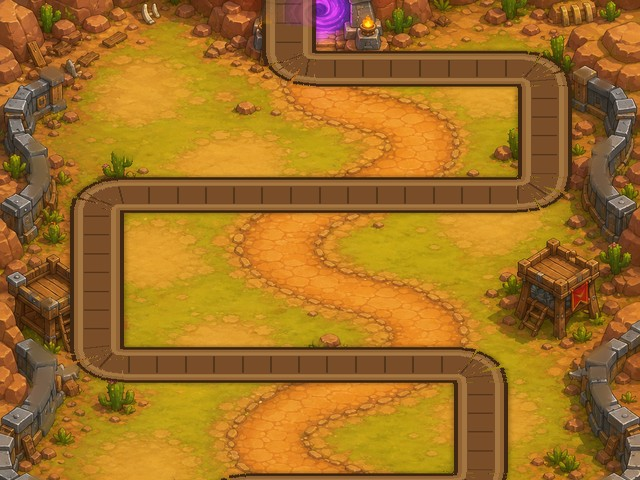
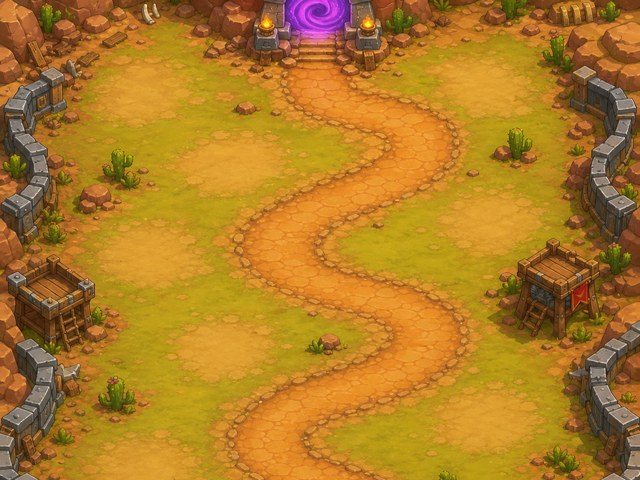
Remove path overlays and drive invaders along painted-road rails.
Art maps bake as pristine backgrounds only; continuous rails track each painted road so movement no longer fights a second visible path.

diff --git a/src/rails.ts b/src/rails.ts
@@ -1,0 +1,23 @@
+/** Continuous painted-road rails (world px). Invaders follow these; no path overlay. */
+
+export type RailPt = readonly [number, number];
+export type MapRails = { cells: readonly (readonly [number, number])[]; rail: readonly RailPt[] };
+
+export const MAP_RAILS: Record<string, MapRails> = {
+  lawn: {
+    cells: [[4, 0], [4, 1], [4, 2], [4, 3], [4, 4], [3, 4], [3, 5], [4, 5], [5, 5], [5, 6], [6, 6], [6, 7], [5, 7], [5, 8], [4, 8], [3, 8], [3, 9], [4, 9], [4, 10], [5, 10], [5, 11], [5, 12], [4, 12], [4, 13], [4, 14]],
+    rail: [[320.0, 42.0], [319.9, 45.6], [319.6, 52.7], [319.4, 59.5], [319.1, 66.0], [318.8, 72.3], [318.4, 78.5], [318.0, 84.8], [317.6, 91.1], [317.3, 97.7], [317.2, 104.6], [317.2, 112.0], [316.6, 120.0], [315.1, 126.7], [313.1, 131.8], [311.7, 136.3], [311.3, 140.9], [311.1, 145.8], [310.3, 150.7], [308.9, 155.4], [307.5, 159.8], [306.3, 164.0], [305.4, 168.0], [305.1, 172.0], [305.4, 176.0], [305.5, 180.0], [304.7, 184.0], [303.8, 188.0], [303.6, 192.0], [303.3, 196.0], [301.9, 200.0], [299.3, 204.0], [296.3, 208.0], [293.7, 212.0], [291.5, 216.0], [289.2, 220.0], [286.6, 224.0], [284.1, 228.0], [281.2, 232.0], [277.7, 236.0], [273.9, 240.0], [270.5, 244.0], [267.6, 248.0], [264.8, 252.0], [262.2, 256.0], [259.6, 260.0], [256.8, 264.0], [254.1, 268.0], [251.8, 272.0], [250.5, 276.0], [250.2, 280.0], [250.7, 284.0], [252.2, 288.0], [254.4, 292.0], [256.9, 296.0], [259.1, 300.0], [260.9, 304.0], [263.4, 308.0], [267.1, 312.0], [272.1, 316.0], [278.4, 320.0], [284.8, 324.0], [289.6, 328.0], [292.8, 332.0], [296.3, 336.0], [301.6, 340.0], [308.1, 344.0], [313.8, 348.0], [317.3, 352.0], [320.3, 356.0], [325.6, 360.0], [333.8, 364.0], [343.2, 368.0], [352.1, 372.0], [359.9, 376.0], [367.0, 380.0], [374.4, 384.0], [382.5, 388.0], [390.2, 392.0], [396.0, 396.0], [399.6, 400.0], [401.8, 404.0], [403.4, 408.0], [404.6, 412.0], [405.3, 416.0], [405.8, 420.0], [406.2, 424.0], [406.4, 428.0], [406.2, 432.0], [405.8, 436.0], [405.0, 440.0], [403.6, 444.0], [401.1, 448.0], [398.7, 452.0], [397.8, 456.0], [398.2, 460.0], [397.9, 464.0], [396.0, 468.0], [393.3, 472.0], [390.9, 476.0], [387.8, 480.0], [383.8, 484.0], [380.3, 488.0], [377.8, 492.0], [375.3, 496.0], [371.7, 500.0], [366.9, 504.0], [361.1, 508.0], [353.5, 512.0], [343.8, 516.0], [334.2, 520.0], [326.8, 524.0], [321.6, 528.0], [316.7, 532.0], [309.7, 536.0], [300.1, 540.0], [289.7, 544.0], [280.3, 548.0], [273.1, 552.0], [267.8, 556.0], [264.2, 560.0], [261.7, 564.0], [259.7, 568.0], [258.0, 572.0], [255.9, 576.0], [253.5, 580.0], [252.3, 584.0], [253.1, 588.0], [255.0, 592.0], [257.1, 596.0], [258.6, 600.0], [259.0, 604.0], [259.0, 608.0], [259.7, 612.0], [261.2, 616.0], [263.2, 620.0], [265.5, 624.0], [267.5, 628.0], [268.9, 632.0], [270.5, 636.0], [272.9, 640.0], [275.9, 644.0], [279.4, 648.0], [284.2, 652.0], [291.6, 656.0], [299.7, 660.0], [305.4, 664.0], [308.9, 668.0], [312.9, 672.0], [318.6, 676.0], [325.0, 680.0], [330.6, 684.0], [334.1, 688.0], [336.0, 692.0], [337.7, 696.0], [340.6, 700.0], [344.4, 704.0], [347.8, 708.0], [350.0, 712.0], [351.0, 716.0], [351.8, 720.0], [352.9, 724.0], [353.6, 728.0], [353.5, 732.0], [353.0, 736.0], [352.3, 740.0], [351.3, 744.0], [349.9, 748.0], [348.3, 752.0], [346.5, 756.0], [344.4, 760.0], [342.6, 764.0], [340.9, 768.0], [338.9, 772.0], [336.4, 776.0], [333.5, 780.0], [330.9, 784.0], [328.6, 788.0], [326.5, 792.0], [324.3, 796.2], [321.9, 800.6], [319.4, 805.1], [317.7, 809.7], [317.5, 814.0], [318.6, 818.7], [319.3, 825.2], [319.0, 832.8], [318.4, 840.2], [318.0, 847.2], [317.7, 853.6], [317.4, 859.7], [317.2, 865.9], [317.1, 872.0], [317.0, 878.0], [317.0, 884.0], [317.0, 890.1], [317.0, 896.1], [317.0, 902.1], [317.0, 908.2], [317.1, 914.4], [317.3, 920.6], [317.4, 926.9], [317.6, 933.1], [317.7, 939.3], [317.9, 945.6], [318.0, 951.8], [318.2, 958.0], [318.4, 964.3], [318.7, 970.5], [318.9, 976.8], [319.1, 983.0], [319.3, 989.3], [319.6, 995.5], [319.8, 1001.8], [320.0, 1008.0]],
+  },
+  palazzo: {
+    cells: [[4, 0], [4, 1], [5, 1], [5, 2], [5, 3], [6, 3], [6, 4], [7, 4], [7, 5], [6, 5], [6, 6], [5, 6], [4, 6], [3, 6], [3, 7], [3, 8], [4, 8], [5, 8], [6, 8], [6, 9], [7, 9], [7, 10], [6, 10], [5, 10], [5, 11], [4, 11], [3, 11], [2, 11], [2, 12], [3, 12], [4, 12], [4, 13], [5, 13], [5, 14], [4, 14]],
+    rail: [[320.0, 42.0], [319.6, 45.1], [318.7, 51.2], [317.8, 57.3], [316.9, 63.5], [316.0, 69.5], [315.2, 75.5], [314.4, 81.6], [313.7, 87.6], [313.0, 93.8], [312.4, 100.1], [312.2, 106.6], [312.7, 113.2], [314.8, 119.6], [318.9, 125.3], [322.7, 129.9], [324.7, 134.0], [325.3, 138.0], [325.0, 142.0], [324.5, 146.0], [325.1, 150.0], [326.9, 154.0], [328.3, 158.0], [328.8, 162.0], [328.7, 166.0], [328.3, 170.0], [327.5, 174.0], [326.3, 178.0], [325.4, 182.0], [326.3, 186.0], [329.5, 190.0], [333.7, 194.0], [338.0, 198.0], [342.3, 202.0], [346.6, 206.0], [350.7, 210.0], [354.6, 214.0], [358.3, 218.0], [361.9, 222.0], [364.9, 226.0], [367.2, 230.0], [368.0, 234.0], [367.6, 238.0], [367.7, 242.0], [370.1, 246.0], [375.1, 250.0], [382.0, 254.0], [390.4, 258.0], [399.4, 262.0], [408.5, 266.0], [416.8, 270.0], [423.7, 274.0], [429.3, 278.0], [433.9, 282.0], [437.9, 286.0], [440.8, 290.0], [443.1, 294.0], [445.7, 298.0], [448.7, 302.0], [451.2, 306.0], [453.0, 310.0], [454.3, 314.0], [455.7, 318.0], [457.0, 322.0], [458.0, 326.0], [458.4, 330.0], [458.1, 334.0], [457.2, 338.0], [455.7, 342.0], [453.8, 346.0], [451.6, 350.0], [449.2, 354.0], [446.3, 358.0], [443.1, 362.0], [439.5, 366.0], [435.3, 370.0], [430.4, 374.0], [425.4, 378.0], [419.8, 382.0], [412.7, 386.0], [404.0, 389.8], [395.9, 392.8], [389.2, 395.0], [382.4, 397.0], [375.3, 399.0], [368.1, 401.0], [360.7, 402.9], [353.7, 404.6], [347.1, 406.0], [340.2, 407.3], [333.5, 408.5], [327.1, 409.5], [320.7, 410.5], [314.3, 411.5], [307.9, 412.5], [301.6, 413.5], [294.8, 414.7], [287.9, 416.0], [281.3, 417.4], [274.6, 419.1], [267.8, 421.2], [260.9, 424.2], [254.8, 428.0], [250.2, 432.0], [246.4, 436.0], [243.4, 440.0], [241.3, 444.0], [240.1, 448.0], [239.3, 452.0], [238.6, 456.0], [238.1, 460.0], [237.8, 464.0], [237.5, 468.0], [236.8, 472.0], [235.4, 476.0], [234.3, 480.0], [234.5, 484.0], [235.8, 488.0], [237.3, 492.0], [239.1, 496.0], [241.7, 500.0], [245.2, 504.0], [249.1, 508.0], [252.8, 512.0], [256.0, 516.0], [258.8, 520.0], [261.0, 524.0], [262.9, 528.0], [265.8, 532.0], [271.2, 536.0], [279.2, 539.8], [287.1, 542.8], [294.0, 545.0], [301.0, 547.0], [308.4, 549.0], [315.7, 551.0], [323.0, 553.0], [330.5, 555.0], [338.4, 556.9], [346.0, 558.6], [353.0, 560.0], [360.1, 561.3], [367.5, 562.7], [374.9, 564.0], [382.2, 565.3], [389.1, 566.7], [395.7, 568.0], [402.1, 569.4], [409.0, 571.1], [416.5, 573.2], [424.7, 576.2], [432.0, 580.0], [436.8, 584.0], [439.6, 588.0], [441.8, 592.0], [444.7, 596.0], [448.0, 600.0], [450.7, 604.0], [452.1, 608.0], [452.7, 612.0], [452.6, 616.0], [452.0, 620.0], [450.9, 624.0], [449.8, 628.0], [448.9, 632.0], [448.8, 636.0], [449.6, 640.0], [450.6, 644.0], [450.8, 648.0], [449.7, 652.0], [447.4, 656.0], [444.4, 660.0], [441.1, 664.0], [437.4, 668.0], [433.3, 672.0], [429.0, 676.0], [424.5, 680.0], [419.2, 684.0], [412.4, 688.0], [404.4, 691.8], [396.8, 694.8], [390.0, 697.0], [383.1, 699.0], [375.7, 701.0], [368.2, 703.0], [360.5, 705.0], [352.5, 706.9], [344.7, 708.6], [337.5, 709.9], [330.5, 711.0], [323.6, 711.9], [316.8, 712.8], [310.0, 713.6], [303.4, 714.3], [296.9, 715.0], [290.5, 715.7], [284.0, 716.3], [277.6, 717.0], [271.0, 717.7], [264.3, 718.4], [257.2, 719.2], [250.1, 720.1], [242.9, 721.0], [235.6, 722.1], [228.2, 723.4], [220.5, 725.2], [212.7, 728.2], [207.0, 732.0], [204.0, 736.0], [201.8, 740.0], [198.8, 744.0], [194.8, 748.0], [190.4, 752.0], [186.7, 756.0], [184.2, 760.0], [183.4, 764.0], [184.1, 768.0], [185.0, 772.0], [185.6, 776.0], [186.1, 780.0], [187.2, 784.0], [189.1, 788.0], [191.6, 792.0], [194.5, 796.0], [197.7, 800.0], [201.1, 804.0], [204.7, 808.0], [209.1, 812.0], [215.2, 816.0], [223.1, 819.8], [231.3, 822.8], [238.7, 825.0], [246.3, 826.9], [253.4, 828.6], [259.5, 830.0], [265.6, 831.4], [272.6, 833.1], [280.0, 835.0], [286.9, 837.2], [293.6, 840.2], [299.3, 844.0], [303.1, 848.0], [305.8, 852.0], [308.6, 856.0], [313.0, 860.0], [319.3, 864.3], [324.1, 869.6], [323.4, 875.8], [318.4, 881.4], [311.9, 886.5], [304.9, 891.3], [297.8, 896.2], [291.4, 901.3], [288.5, 906.1], [289.2, 911.0], [291.1, 916.6], [291.9, 922.9], [290.8, 928.7], [288.1, 933.7], [285.2, 938.0], [283.6, 942.2], [282.7, 946.6], [281.3, 951.1], [281.2, 955.7], [285.2, 959.7], [291.9, 962.9], [298.2, 965.6], [304.5, 969.8], [309.2, 975.7], [311.9, 982.5], [314.2, 989.5], [316.2, 996.1], [318.1, 1002.2], [320.0, 1008.0]],
+  },
+  border: {
+    cells: [[4, 0], [5, 0], [5, 1], [6, 1], [6, 2], [5, 2], [5, 3], [6, 3], [6, 4], [6, 5], [5, 5], [5, 6], [4, 6], [4, 7], [5, 7], [5, 8], [6, 8], [6, 9], [5, 9], [5, 10], [4, 10], [4, 11], [4, 12], [5, 12], [5, 13], [5, 14], [4, 14]],
+    rail: [[320.0, 42.0], [322.1, 44.5], [326.4, 49.4], [330.7, 54.3], [335.0, 59.3], [339.2, 64.2], [343.5, 69.1], [347.8, 73.9], [352.1, 78.6], [356.3, 83.4], [360.6, 88.1], [364.9, 92.8], [369.3, 97.4], [373.7, 102.0], [378.1, 106.5], [382.7, 111.2], [387.7, 116.1], [392.9, 121.1], [398.2, 126.2], [403.2, 131.4], [406.7, 136.5], [406.4, 141.6], [403.1, 146.0], [399.6, 150.0], [396.8, 154.0], [393.9, 158.0], [389.5, 162.0], [382.3, 165.4], [374.6, 167.8], [367.9, 169.3], [361.5, 170.7], [355.2, 172.0], [349.1, 173.4], [342.6, 175.2], [336.0, 178.2], [332.1, 182.0], [331.5, 186.0], [332.6, 190.0], [334.1, 194.0], [335.4, 198.0], [336.5, 202.0], [338.2, 206.0], [340.9, 210.0], [343.4, 214.0], [344.6, 218.0], [344.2, 222.0], [343.8, 226.0], [346.2, 230.0], [352.1, 234.0], [359.8, 238.0], [367.3, 242.0], [374.6, 246.0], [382.2, 250.0], [389.6, 254.0], [395.8, 258.0], [400.5, 262.0], [403.8, 266.0], [405.7, 270.0], [406.5, 274.0], [406.1, 278.0], [405.4, 282.0], [404.9, 286.0], [404.3, 290.0], [402.9, 294.0], [400.3, 298.0], [397.0, 302.0], [394.2, 306.0], [392.1, 310.0], [390.3, 314.0], [389.3, 318.0], [390.3, 322.0], [393.3, 326.0], [396.6, 330.0], [398.6, 334.0], [398.4, 338.0], [395.8, 342.0], [391.7, 346.0], [387.1, 350.0], [382.0, 354.0], [375.8, 358.0], [368.6, 362.0], [360.5, 366.0], [351.5, 370.0], [342.2, 374.0], [333.6, 378.0], [327.1, 382.0], [322.3, 386.0], [318.3, 390.0], [314.9, 394.0], [311.6, 398.0], [307.8, 402.0], [303.3, 406.0], [298.9, 410.0], [295.7, 414.0], [294.6, 418.0], [295.0, 422.0], [295.5, 426.0], [295.6, 430.0], [295.6, 434.0], [295.6, 438.0], [295.9, 442.0], [296.6, 446.0], [297.9, 450.0], [300.0, 454.0], [302.6, 458.0], [306.2, 462.0], [311.6, 466.0], [318.3, 470.0], [325.3, 474.0], [332.0, 478.0], [338.4, 482.0], [343.6, 486.0], [347.3, 490.0], [350.1, 494.0], [352.3, 498.0], [352.4, 502.0], [349.6, 506.0], [346.4, 510.0], [346.9, 514.0], [352.4, 518.0], [360.6, 521.5], [368.9, 524.5], [377.8, 528.0], [386.0, 532.0], [392.4, 536.0], [397.5, 540.0], [401.3, 544.0], [404.3, 548.0], [406.8, 552.0], [408.8, 556.0], [409.7, 560.0], [409.9, 564.0], [410.0, 568.0], [410.3, 572.0], [409.9, 576.0], [408.2, 580.0], [405.0, 584.0], [401.2, 588.0], [397.8, 592.0], [395.1, 596.0], [393.1, 600.0], [391.2, 604.0], [388.4, 608.0], [384.1, 612.0], [378.6, 616.0], [372.5, 620.0], [366.4, 624.0], [360.5, 628.0], [354.2, 632.0], [346.5, 636.0], [337.2, 640.0], [327.3, 644.0], [318.0, 648.0], [311.0, 652.0], [307.8, 656.0], [308.6, 660.0], [312.3, 664.0], [316.4, 668.0], [318.3, 672.0], [317.3, 676.0], [314.5, 680.0], [310.8, 684.0], [306.5, 688.0], [301.7, 692.0], [297.2, 696.0], [293.8, 700.0], [291.4, 704.0], [289.1, 708.0], [287.0, 712.0], [285.8, 716.0], [285.5, 720.0], [285.7, 724.0], [286.0, 728.0], [286.3, 732.0], [286.4, 736.0], [286.1, 740.0], [285.9, 744.0], [286.8, 748.0], [289.1, 752.0], [292.0, 756.0], [293.1, 760.0], [291.0, 764.0], [287.2, 768.0], [284.4, 772.0], [284.1, 776.0], [286.4, 780.0], [291.3, 784.0], [297.8, 788.0], [304.0, 792.0], [309.4, 796.0], [315.0, 800.0], [321.9, 804.0], [329.8, 808.0], [337.4, 812.0], [343.8, 816.0], [349.2, 820.0], [353.3, 824.0], [356.0, 828.0], [357.5, 832.0], [358.2, 836.0], [358.3, 840.0], [358.5, 844.0], [359.0, 848.0], [359.6, 852.0], [359.6, 856.0], [358.2, 860.0], [355.6, 864.0], [352.8, 868.0], [350.2, 872.0], [347.6, 876.0], [344.3, 880.0], [340.1, 884.0], [335.9, 888.0], [333.5, 892.0], [334.2, 896.0], [337.4, 900.0], [340.8, 904.0], [342.6, 908.0], [342.5, 912.0], [340.6, 916.0], [337.4, 920.0], [334.2, 924.0], [331.8, 928.0], [329.8, 932.0], [327.3, 936.0], [324.2, 940.0], [320.8, 944.0], [318.0, 948.0], [316.5, 952.0], [315.4, 956.0], [314.2, 960.0], [313.9, 964.3], [316.7, 968.6], [322.2, 972.5], [328.8, 976.5], [334.9, 981.3], [338.2, 986.9], [337.3, 992.8], [333.4, 997.9], [328.2, 1002.2], [322.8, 1006.1], [320.0, 1008.0]],
+  },
+  avenue: {
+    cells: [[4, 0], [5, 0], [5, 1], [5, 2], [5, 3], [6, 3], [6, 4], [6, 5], [5, 5], [5, 6], [4, 6], [4, 7], [3, 7], [3, 8], [2, 8], [2, 9], [2, 10], [3, 10], [4, 10], [5, 10], [6, 10], [7, 10], [7, 11], [7, 12], [6, 12], [5, 12], [4, 12], [3, 12], [3, 13], [3, 14], [4, 14]],
+    rail: [[320.0, 45.0], [320.8, 48.0], [322.3, 54.0], [323.9, 60.0], [325.5, 66.0], [327.0, 72.0], [328.6, 78.0], [330.1, 84.0], [331.7, 89.9], [333.2, 95.9], [334.8, 101.9], [336.5, 107.7], [338.2, 113.5], [339.8, 119.3], [341.5, 125.1], [343.2, 130.9], [344.9, 136.7], [346.6, 142.5], [348.5, 148.2], [350.6, 153.9], [352.8, 159.6], [354.9, 165.2], [357.1, 170.9], [360.8, 176.9], [364.5, 182.8], [370.9, 188.1], [376.9, 191.4], [382.7, 194.6], [388.3, 198.3], [393.6, 202.6], [398.6, 207.4], [403.2, 212.5], [407.4, 217.8], [411.4, 223.2], [415.4, 228.6], [419.4, 233.9], [423.4, 239.2], [427.0, 244.7], [429.9, 250.3], [431.8, 256.1], [432.4, 268.0], [430.9, 273.9], [428.3, 279.7], [424.8, 285.3], [420.6, 290.7], [415.9, 295.9], [411.0, 301.0], [406.0, 306.0], [401.0, 311.0], [396.0, 316.0], [391.0, 321.0], [386.0, 325.9], [381.0, 330.7], [375.9, 335.3], [370.8, 339.8], [365.6, 344.2], [360.4, 348.7], [355.2, 353.3], [350.1, 358.1], [345.2, 363.0], [340.4, 368.0], [335.6, 373.0], [330.9, 378.0], [326.2, 383.1], [321.9, 388.3], [318.3, 393.7], [315.8, 399.3], [313.8, 411.0], [313.3, 423.0], [313.2, 429.0], [313.1, 435.0], [312.9, 447.0], [311.7, 458.7], [308.6, 467.0], [305.2, 472.2], [301.0, 477.1], [296.2, 481.7], [291.0, 485.7], [285.5, 489.3], [279.8, 492.5], [273.9, 495.3], [268.0, 497.9], [262.0, 500.1], [256.0, 501.9], [250.0, 503.3], [244.0, 504.3], [238.0, 505.2], [232.0, 506.3], [226.0, 507.8], [220.0, 509.9], [214.1, 512.6], [208.2, 515.8], [202.5, 519.4], [197.0, 523.4], [191.8, 527.9], [186.8, 532.6], [182.1, 537.6], [177.8, 542.7], [174.0, 548.0], [170.8, 553.5], [168.0, 559.2], [165.8, 565.1], [164.1, 571.0], [163.0, 577.0], [162.5, 583.0], [162.4, 589.0], [162.7, 595.0], [163.6, 601.0], [165.1, 607.0], [167.2, 613.0], [170.1, 618.9], [173.6, 624.8], [177.6, 630.5], [182.1, 635.9], [186.9, 641.0], [192.0, 645.6], [197.5, 649.5], [203.2, 652.5], [209.1, 654.7], [215.0, 656.3], [221.0, 657.8], [227.0, 659.5], [233.0, 661.4], [239.0, 663.4], [245.0, 665.2], [251.0, 666.6], [257.0, 667.4], [263.0, 667.8], [269.0, 668.0], [275.0, 668.0], [281.0, 668.0], [287.0, 668.0], [293.0, 668.0], [299.0, 668.0], [305.0, 668.0], [311.0, 668.0], [317.0, 668.0], [323.0, 668.0], [329.0, 668.0], [335.0, 668.0], [341.0, 668.0], [347.0, 668.0], [353.0, 668.0], [359.0, 668.0], [365.0, 668.0], [371.0, 667.9], [377.0, 667.6], [383.0, 667.1], [389.0, 666.5], [395.0, 665.9], [401.0, 665.4], [407.0, 665.1], [413.0, 665.0], [419.0, 665.0], [428.0, 665.0], [440.0, 665.1], [451.7, 666.3], [459.9, 669.4], [465.0, 672.8], [469.7, 677.1], [473.9, 682.1], [477.4, 687.5], [480.4, 693.2], [482.8, 699.1], [484.7, 705.0], [485.9, 711.0], [486.5, 717.0], [486.7, 723.0], [486.4, 729.0], [485.5, 735.0], [483.8, 740.9], [481.4, 746.8], [478.1, 752.5], [474.3, 758.0], [469.9, 763.3], [465.2, 768.3], [460.2, 772.9], [455.0, 777.1], [449.5, 780.5], [443.8, 783.0], [437.9, 784.6], [432.0, 785.4], [426.0, 785.8], [420.0, 786.0], [414.0, 786.0], [408.0, 786.0], [402.0, 786.0], [396.0, 786.0], [390.0, 786.0], [384.0, 786.0], [378.0, 786.0], [372.0, 786.0], [366.0, 786.0], [360.0, 786.0], [354.0, 786.0], [348.0, 786.0], [342.0, 786.0], [336.0, 786.0], [330.0, 786.0], [324.0, 786.0], [318.0, 786.0], [312.0, 786.0], [306.0, 786.0], [300.0, 786.0], [294.0, 786.0], [288.0, 786.0], [282.0, 786.1], [276.0, 786.3], [270.0, 786.7], [264.0, 787.7], [258.1, 789.4], [252.2, 791.8], [246.5, 794.9], [241.0, 798.8], [235.8, 803.1], [230.8, 807.9], [226.1, 812.9], [221.9, 818.2], [218.4, 823.7], [215.7, 829.3], [213.9, 835.1], [212.5, 844.0], [212.9, 853.0], [214.0, 858.9], [216.1, 864.8], [219.3, 870.5], [223.2, 876.0], [227.7, 881.2], [232.5, 886.2], [237.4, 891.0], [242.1, 895.8], [246.3, 900.8], [249.6, 906.0], [253.0, 914.3], [255.0, 923.0], [256.6, 928.8], [258.9, 934.5], [261.9, 940.1], [265.3, 945.5], [269.0, 951.3], [272.7, 956.8], [276.2, 961.9], [280.9, 967.5], [285.5, 973.1], [289.8, 977.6], [294.1, 982.1], [298.4, 986.6], [302.7, 991.0], [307.0, 995.2], [311.3, 999.5], [315.7, 1003.7], [320.0, 1008.0]],
+  },
+};

diff --git a/src/render.ts b/src/render.ts
@@ -118,54 +118,12 @@ export class Renderer {
     const art = this.art;
 
     if (art && art.complete && art.naturalWidth > 0) {
-      // Layer 1 — painted battlefield (exact world pixels).
+      // Painted battlefield only — no path/build overlays. Invader rail matches art.
       ctx.drawImage(art, 0, 0, WORLD_W, WORLD_H);
-      // Layer 1b — hairline guide locked to GameMap samples (road is baked into art).
-      this.paintAlignedPath(ctx, theme);
-      this.paintBuildHints(ctx, theme);
-      // Painted portals already mark the spawn — skip the gold IN badge.
       return;
     }
 
     this.bakeProcedural(ctx, theme);
-  }
-
-  /**
-   * Ultra-light centerline so enemies read as locked to the baked brick road.
-   */
-  private paintAlignedPath(ctx: CanvasRenderingContext2D, theme: Theme): void {
-    ctx.save();
-    ctx.lineJoin = 'round';
-    ctx.lineCap = 'round';
-    ctx.globalAlpha = 0.1;
-    ctx.strokeStyle = mixHex(theme.pathEdge, '#1a0808', 0.25);
-    ctx.lineWidth = CELL * 0.82;
-    this.strokePath(ctx);
-    ctx.globalAlpha = 0.18;
-    ctx.strokeStyle = 'rgba(255, 248, 230, 0.45)';
-    ctx.lineWidth = 1.5;
-    ctx.setLineDash([4, 11]);
-    this.strokePath(ctx);
-    ctx.setLineDash([]);
-    ctx.restore();
-  }
-
-  /** Nearly invisible pads — art grass stays dominant. */
-  private paintBuildHints(ctx: CanvasRenderingContext2D, theme: Theme): void {
-    ctx.save();
-    for (let r = 0; r < ROWS; r++) {
-      for (let c = 0; c < COLS; c++) {
-        if (this.map.isPath(c, r) || this.map.blocked[this.map.idx(c, r)]) continue;
-        const x = c * CELL;
-        const y = r * CELL;
-        ctx.globalAlpha = 0.03;
-        ctx.fillStyle = mixHex(theme.grassHi, '#ffffff', 0.35);
-        ctx.beginPath();
-        ctx.roundRect(x + 10, y + 10, CELL - 20, CELL - 20, 10);
-        ctx.fill();
-      }
-    }
-    ctx.restore();
   }
 
   private bakeProcedural(ctx: CanvasRenderingContext2D, theme: Theme): void {

diff --git a/src/map.ts b/src/map.ts
@@ -1,5 +1,6 @@
 import { CELL, COLS, ROWS } from './types.ts';
 import { MAPS, type MapDef, type MapId } from './campaign.ts';
+import { MAP_RAILS } from './rails.ts';
 
 export type PathSample = { x: number; y: number; angle: number; t: number };
 
@@ -69,7 +70,8 @@ export class GameMap {
 
   constructor(id: MapId = 'lawn') {
     this.def = MAPS[id];
-    this.pathCells = this.def.path;
+    const rails = MAP_RAILS[id];
+    this.pathCells = (rails?.cells ?? this.def.path).map(([c, r]) => [c, r] as [number, number]);
     this.whiteHouse = this.def.house;
     this.pathIndex = new Int16Array(COLS * ROWS);
     this.pathIndex.fill(-1);
@@ -86,8 +88,14 @@ export class GameMap {
       if (this.blocked[i] === 2) throw new Error(`Landmark overlap: ${id} ${lm.kind} ${lm.c},${lm.r}`);
       this.blocked[i] = 2;
     }
-    const centers = this.pathCells.map(([c, r]) => cellCenter(c, r));
-    this.samples = densify(chamfer(centers, 38), 4);
+    // Prefer continuous painted-road rail so invaders track the art (no grid stair-steps).
+    if (rails?.rail?.length) {
+      const pts = rails.rail.map(([x, y]) => ({ x, y }));
+      this.samples = densify(pts, 4);
+    } else {
+      const centers = this.pathCells.map(([c, r]) => cellCenter(c, r));
+      this.samples = densify(chamfer(centers, 38), 4);
+    }
     this.length = this.samples[this.samples.length - 1]!.t;
     if (!this.verifyPath()) throw new Error(`Path disconnected: ${id}`);
   }

diff --git a/src/campaign.ts b/src/campaign.ts
@@ -161,7 +161,7 @@ function centerSPath(): [number, number][] {
 export const MAPS: Record<MapId, MapDef> = {
   lawn: {
     id: 'lawn',
-    art: './maps/play-lawn.jpg?v=3',
+    art: './maps/play-lawn.jpg?v=5',
     name: 'South Lawn',
     subtitle: 'Protect the People’s House',
     briefing:
@@ -201,7 +201,7 @@ export const MAPS: Record<MapId, MapDef> = {
   },
   palazzo: {
     id: 'palazzo',
-    art: './maps/play-palazzo.jpg?v=3',
+    art: './maps/play-palazzo.jpg?v=5',
     name: 'Mar-a-Lago Drive',
     subtitle: 'Gold, palms, and a very exclusive gate',
     briefing:
@@ -241,7 +241,7 @@ export const MAPS: Record<MapId, MapDef> = {
   },
   border: {
     id: 'border',
-    art: './maps/play-border.jpg?v=3',
+    art: './maps/play-border.jpg?v=5',
     name: 'Frontier Ridge',
     subtitle: 'Steel, dust, and a very finished wall',
     briefing:
@@ -281,7 +281,7 @@ export const MAPS: Record<MapId, MapDef> = {
   },
   avenue: {
     id: 'avenue',
-    art: './maps/play-avenue.jpg?v=3',
+    art: './maps/play-avenue.jpg?v=5',
     name: 'Fifth Avenue',
     subtitle: 'Traffic, tickers, and a gold tower',
     briefing:
